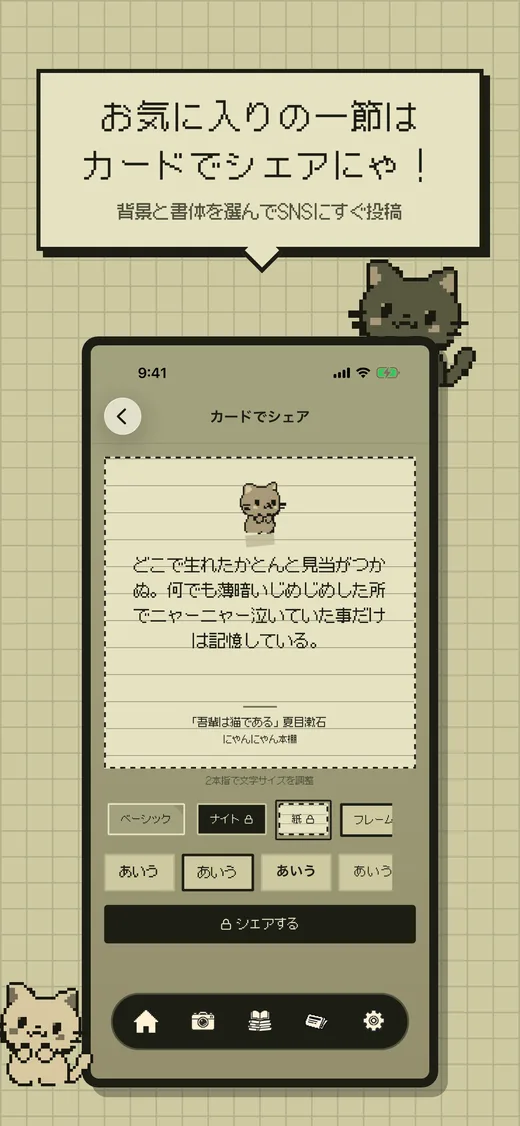
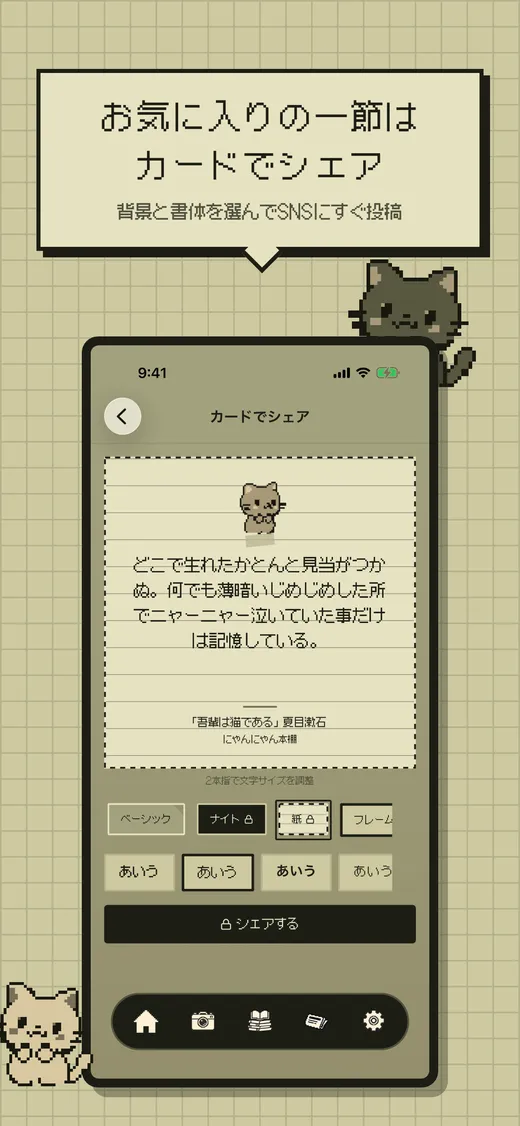
fix: 냥냥서가 스크린샷과 설명 문구를 해요체로 바꾸기 (한·일)
- 스크린샷 11장과 공유 카드 이미지 2장 교체
- 스크린샷 설명(alts)의 냥체를 해요체로 변경

Changed region(s): [[0.2462, 0.1243, 0.7692, 0.1865], [0.1538, 0.1243, 0.2154, 0.1554], [0.8, 0.1243, 0.8308, 0.1554]]

diff --git a/ja/nyangnyang/index.html b/ja/nyangnyang/index.html
@@ -53,7 +53,7 @@
     </div>
   </aside>
   <div class="main">
-    <div class="shots"><figure class="shot" style="--rot:-1.5deg"><span class="tape"></span><img src="/assets/shots/nyangnyang-ja-2.webp" alt="撮ったらおしまい、一節を書き写すにゃ! 写真の中の文字を自動で読み取ります" loading="lazy"></figure><figure class="shot" style="--rot:1.2deg"><span class="tape"></span><img src="/assets/shots/nyangnyang-ja-4.webp" alt="お気に入りの一節はカードでシェアにゃ! 背景と書体を選んでSNSにすぐ投稿" loading="lazy"></figure><figure class="shot" style="--rot:-0.8deg"><span class="tape"></span><img src="/assets/shots/nyangnyang-ja-1.webp" alt="猫たちが守るわたしの本棚にゃ! 読んだ本と一節をまとめて置ける場所" loading="lazy"></figure><figure class="shot" style="--rot:1.6deg"><span class="tape"></span><img src="/assets/shots/nyangnyang-ja-3.webp" alt="読んだ本と一節がどんどん貯まるにゃ! 読書中も読了もひと目で" loading="lazy"></figure><figure class="shot" style="--rot:-1.2deg"><span class="tape"></span><img src="/assets/shots/nyangnyang-ja-5.webp" alt="本を登録するたびににゃんこに会える! ひとつずつ集めるにゃんこ図鑑" loading="lazy"></figure><figure class="shot" style="--rot:-1.5deg"><span class="tape"></span><img src="/assets/shots/nyangnyang-ja-6.webp" alt="読む時間はにゃんこが計るにゃ! ロック画面ですぐ見られる読書タイマー" loading="lazy"></figure></div>
+    <div class="shots"><figure class="shot" style="--rot:-1.5deg"><span class="tape"></span><img src="/assets/shots/nyangnyang-ja-2.webp" alt="撮ったらおしまい、一節を書き写します。写真の中の文字を自動で読み取ります" loading="lazy"></figure><figure class="shot" style="--rot:1.2deg"><span class="tape"></span><img src="/assets/shots/nyangnyang-ja-4.webp" alt="お気に入りの一節はカードでシェア。背景と書体を選んでSNSにすぐ投稿" loading="lazy"></figure><figure class="shot" style="--rot:-0.8deg"><span class="tape"></span><img src="/assets/shots/nyangnyang-ja-1.webp" alt="猫たちが守るわたしの本棚。読んだ本と一節をまとめて置ける場所" loading="lazy"></figure><figure class="shot" style="--rot:1.6deg"><span class="tape"></span><img src="/assets/shots/nyangnyang-ja-3.webp" alt="読んだ本と一節がどんどん貯まります。読書中も読了もひと目で" loading="lazy"></figure><figure class="shot" style="--rot:-1.2deg"><span class="tape"></span><img src="/assets/shots/nyangnyang-ja-5.webp" alt="本を登録するたびににゃんこに会える! ひとつずつ集めるにゃんこ図鑑" loading="lazy"></figure><figure class="shot" style="--rot:-1.5deg"><span class="tape"></span><img src="/assets/shots/nyangnyang-ja-6.webp" alt="読む時間はにゃんこが計ります。ロック画面ですぐ見られる読書タイマー" loading="lazy"></figure></div>
     <div class="shots-nav"><button type="button" class="prev" aria-label="前の画面" disabled><svg viewBox="0 0 24 24" aria-hidden="true"><path d="M15 5l-7 7 7 7"/></svg></button><span class="count" aria-live="polite">1 / 6</span><button type="button" class="next" aria-label="次の画面"><svg viewBox="0 0 24 24" aria-hidden="true"><path d="M9 5l7 7-7 7"/></svg></button></div>
     <ul class="promise"><li><b>ログインなしですぐ使えます</b><span>本の登録から文章の記録、ねこ集めまで、会員登録は不要です。</span></li><li><b>記録はこの端末に保存されます</b><span>ログインするまで、本や文章がサーバーに送られることはありません。</span></li><li><b>広告もサブスクもありません</b><span>基本の機能はすべて無料。一部の機能だけ、一度の購入でずっと使えます。</span></li></ul>
     <section class="faq"><h2>よくある質問</h2>

diff --git a/nyangnyang/index.html b/nyangnyang/index.html
@@ -53,7 +53,7 @@
     </div>
   </aside>
   <div class="main">
-    <div class="shots"><figure class="shot" style="--rot:-1.5deg"><span class="tape"></span><img src="/assets/shots/nyangnyang-ko-2.webp" alt="찍으면 끝, 문장을 옮겨 적냥! 사진 속 글자를 자동으로 읽어줘요" loading="lazy"></figure><figure class="shot" style="--rot:1.2deg"><span class="tape"></span><img src="/assets/shots/nyangnyang-ko-4.webp" alt="마음에 든 문장은 예쁜 카드로 공유냥! 배경과 글꼴을 골라 SNS에 바로" loading="lazy"></figure><figure class="shot" style="--rot:-0.8deg"><span class="tape"></span><img src="/assets/shots/nyangnyang-ko-1.webp" alt="고양이들이 지키는 나만의 서재냥! 읽은 책과 문장을 모으는 곳" loading="lazy"></figure><figure class="shot" style="--rot:1.6deg"><span class="tape"></span><img src="/assets/shots/nyangnyang-ko-3.webp" alt="읽은 책과 문장이 차곡차곡 쌓인다냥! 읽는 중인 책도, 다 읽은 책도 한눈에" loading="lazy"></figure><figure class="shot" style="--rot:-1.2deg"><span class="tape"></span><img src="/assets/shots/nyangnyang-ko-5.webp" alt="책을 담을 때마다 냥냥이를 만나냥! 하나씩 채워가는 냥냥이 도감" loading="lazy"></figure><figure class="shot" style="--rot:-1.5deg"><span class="tape"></span><img src="/assets/shots/nyangnyang-ko-6.webp" alt="읽는 시간은 냥냥이가 재준다냥! 잠금화면에서 바로 보는 독서 타이머" loading="lazy"></figure></div>
+    <div class="shots"><figure class="shot" style="--rot:-1.5deg"><span class="tape"></span><img src="/assets/shots/nyangnyang-ko-2.webp" alt="찍으면 끝, 문장을 옮겨 적어요. 사진 속 글자를 자동으로 읽어줘요" loading="lazy"></figure><figure class="shot" style="--rot:1.2deg"><span class="tape"></span><img src="/assets/shots/nyangnyang-ko-4.webp" alt="마음에 든 문장은 예쁜 카드로 공유. 배경과 글꼴을 골라 SNS에 바로" loading="lazy"></figure><figure class="shot" style="--rot:-0.8deg"><span class="tape"></span><img src="/assets/shots/nyangnyang-ko-1.webp" alt="고양이들이 지키는 나만의 서재. 읽은 책과 문장을 모으는 곳" loading="lazy"></figure><figure class="shot" style="--rot:1.6deg"><span class="tape"></span><img src="/assets/shots/nyangnyang-ko-3.webp" alt="읽은 책과 문장이 차곡차곡 쌓여요. 읽는 중인 책도, 다 읽은 책도 한눈에" loading="lazy"></figure><figure class="shot" style="--rot:-1.2deg"><span class="tape"></span><img src="/assets/shots/nyangnyang-ko-5.webp" alt="책을 담을 때마다 새 냥냥이를 만나요. 하나씩 채워가는 냥냥이 도감" loading="lazy"></figure><figure class="shot" style="--rot:-1.5deg"><span class="tape"></span><img src="/assets/shots/nyangnyang-ko-6.webp" alt="읽는 시간은 냥냥이가 재줘요. 잠금화면에서 바로 보는 독서 타이머" loading="lazy"></figure></div>
     <div class="shots-nav"><button type="button" class="prev" aria-label="이전 화면" disabled><svg viewBox="0 0 24 24" aria-hidden="true"><path d="M15 5l-7 7 7 7"/></svg></button><span class="count" aria-live="polite">1 / 6</span><button type="button" class="next" aria-label="다음 화면"><svg viewBox="0 0 24 24" aria-hidden="true"><path d="M9 5l7 7-7 7"/></svg></button></div>
     <ul class="promise"><li><b>로그인 없이 바로 써요</b><span>책 등록부터 구절 기록, 고양이 모으기까지 가입 없이 다 돼요.</span></li><li><b>기록은 내 폰에 저장돼요</b><span>로그인하기 전에는 책과 구절이 서버에 올라가지 않아요.</span></li><li><b>광고도 구독도 없어요</b><span>기본 기능은 모두 무료예요. 일부 기능만 한 번 결제하면 계속 써요.</span></li></ul>
     <section class="faq"><h2>자주 묻는 질문</h2>

diff --git a/build.py b/build.py
@@ -65,7 +65,7 @@ APPS = [
         'en': [('Use it without logging in', 'From adding books to saving quotes and collecting cats, no account needed.'), ('Your records stay on your phone', 'Nothing is uploaded to our server until you log in.'), ('No ads, no subscriptions', 'The core is free. A few extras unlock with a one-time purchase.')],
       },
       free={'ko': '무료로 시작 · 광고 없음 · 로그인 필요 없음', 'ja': '無料で始められます · 広告なし · ログイン不要', 'en': 'Free to start · No ads · No sign-in needed'},
-      alts={'ko': ['찍으면 끝, 문장을 옮겨 적냥! 사진 속 글자를 자동으로 읽어줘요', '마음에 든 문장은 예쁜 카드로 공유냥! 배경과 글꼴을 골라 SNS에 바로', '고양이들이 지키는 나만의 서재냥! 읽은 책과 문장을 모으는 곳', '읽은 책과 문장이 차곡차곡 쌓인다냥! 읽는 중인 책도, 다 읽은 책도 한눈에', '책을 담을 때마다 냥냥이를 만나냥! 하나씩 채워가는 냥냥이 도감', '읽는 시간은 냥냥이가 재준다냥! 잠금화면에서 바로 보는 독서 타이머'], 'ja': ['撮ったらおしまい、一節を書き写すにゃ! 写真の中の文字を自動で読み取ります', 'お気に入りの一節はカードでシェアにゃ! 背景と書体を選んでSNSにすぐ投稿', '猫たちが守るわたしの本棚にゃ! 読んだ本と一節をまとめて置ける場所', '読んだ本と一節がどんどん貯まるにゃ! 読書中も読了もひと目で', '本を登録するたびににゃんこに会える! ひとつずつ集めるにゃんこ図鑑', '読む時間はにゃんこが計るにゃ! ロック画面ですぐ見られる読書タイマー'], 'en': ['Snap it and the quote is saved! Reads the text in your photo for you', 'Turn a quote into a pretty card! Pick a background and font, then share', 'Cats guard your own library! Where your books and quotes live', 'Your books and quotes pile up! Reading or finished, all at a glance', 'Meet a new cat with every book! Fill your cat collection one by one', 'Your cat times your reading! A reading timer on your Lock Screen']},
+      alts={'ko': ['찍으면 끝, 문장을 옮겨 적어요. 사진 속 글자를 자동으로 읽어줘요', '마음에 든 문장은 예쁜 카드로 공유. 배경과 글꼴을 골라 SNS에 바로', '고양이들이 지키는 나만의 서재. 읽은 책과 문장을 모으는 곳', '읽은 책과 문장이 차곡차곡 쌓여요. 읽는 중인 책도, 다 읽은 책도 한눈에', '책을 담을 때마다 새 냥냥이를 만나요. 하나씩 채워가는 냥냥이 도감', '읽는 시간은 냥냥이가 재줘요. 잠금화면에서 바로 보는 독서 타이머'], 'ja': ['撮ったらおしまい、一節を書き写します。写真の中の文字を自動で読み取ります', 'お気に入りの一節はカードでシェア。背景と書体を選んでSNSにすぐ投稿', '猫たちが守るわたしの本棚。読んだ本と一節をまとめて置ける場所', '読んだ本と一節がどんどん貯まります。読書中も読了もひと目で', '本を登録するたびににゃんこに会える! ひとつずつ集めるにゃんこ図鑑', '読む時間はにゃんこが計ります。ロック画面ですぐ見られる読書タイマー'], 'en': ['Snap it and the quote is saved! Reads the text in your photo for you', 'Turn a quote into a pretty card! Pick a background and font, then share', 'Cats guard your own library! Where your books and quotes live', 'Your books and quotes pile up! Reading or finished, all at a glance', 'Meet a new cat with every book! Fill your cat collection one by one', 'Your cat times your reading! A reading timer on your Lock Screen']},
       store=[('App Store', 'https://apps.apple.com/{cc}/app/id6806888734'), ('Google Play', 'https://play.google.com/store/apps/details?id=com.nyangnyangseoga.app&amp;hl={hl}')],
       legal={'privacy': {'ko': '/nyangnyang-site/privacy.html', 'ja': '/nyangnyang-site/ja/privacy.html', 'en': '/nyangnyang-site/en/privacy.html'},
              'terms': {'ko': '/nyangnyang-site/terms.html', 'ja': '/nyangnyang-site/ja/terms.html', 'en': '/nyangnyang-site/en/terms.html'}},
